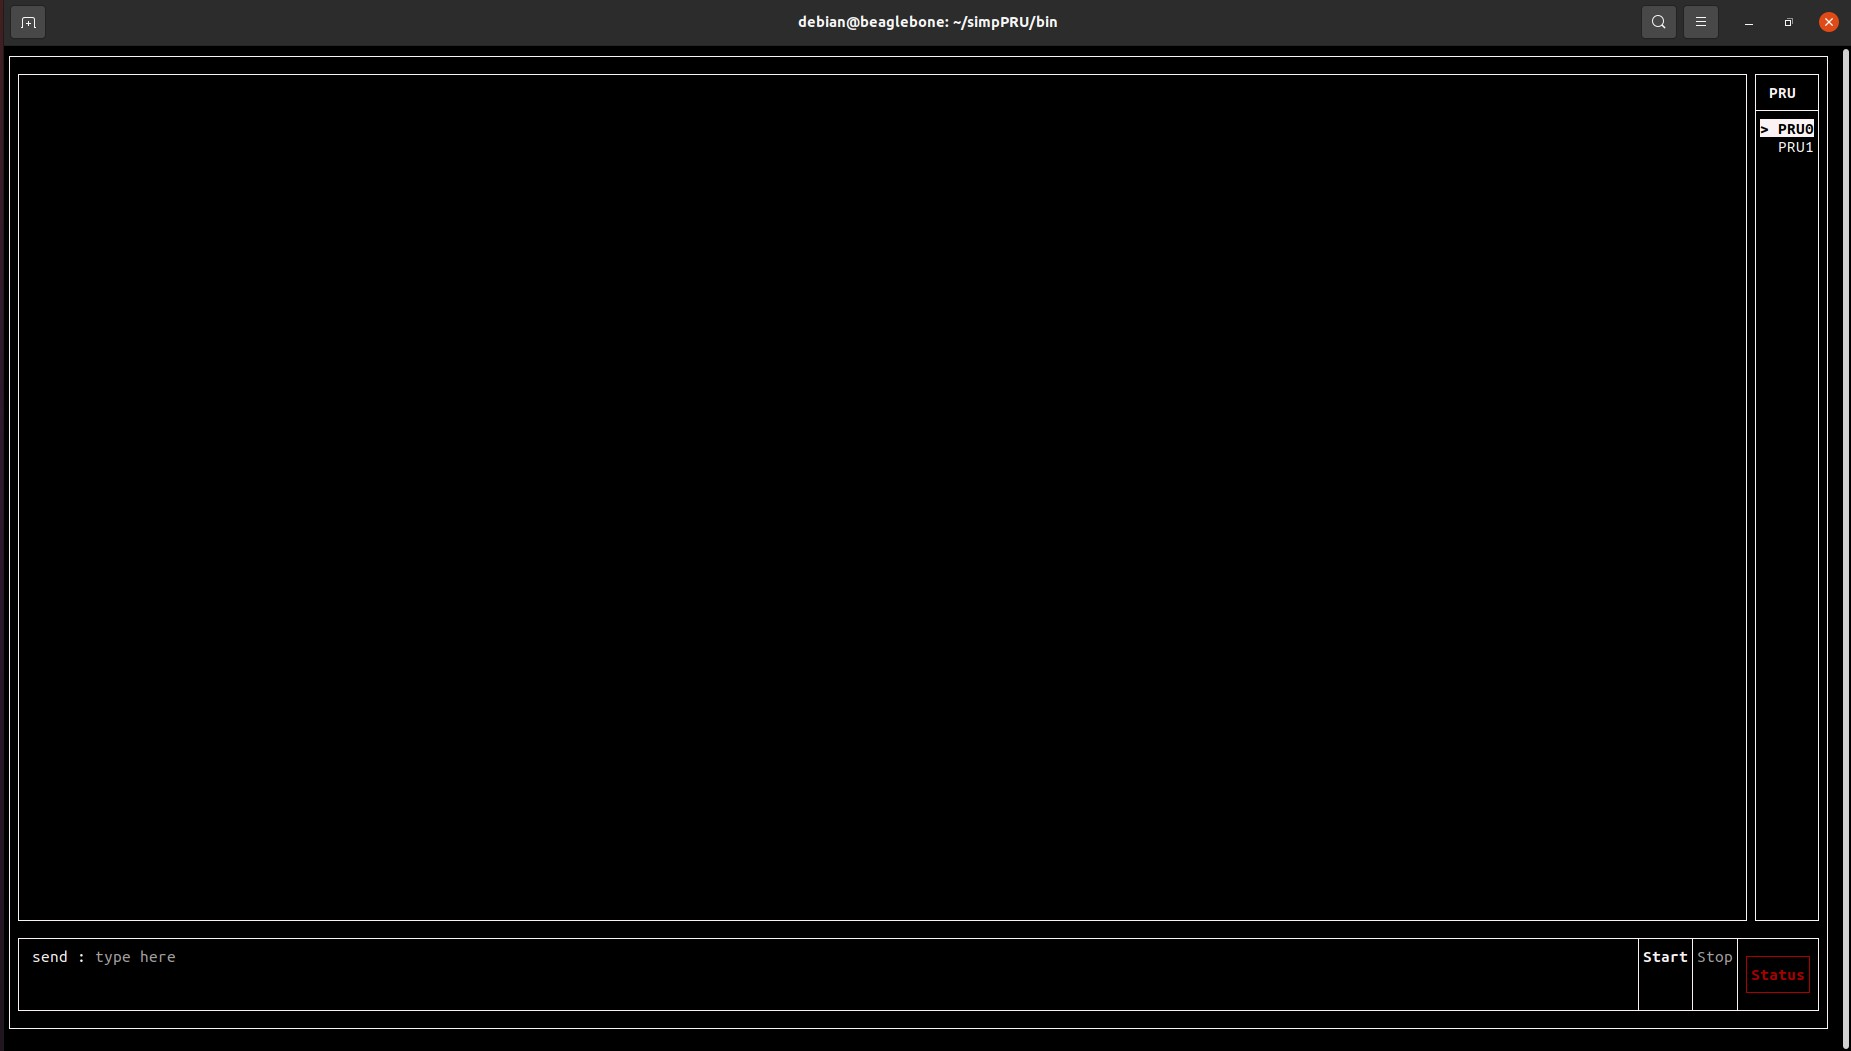
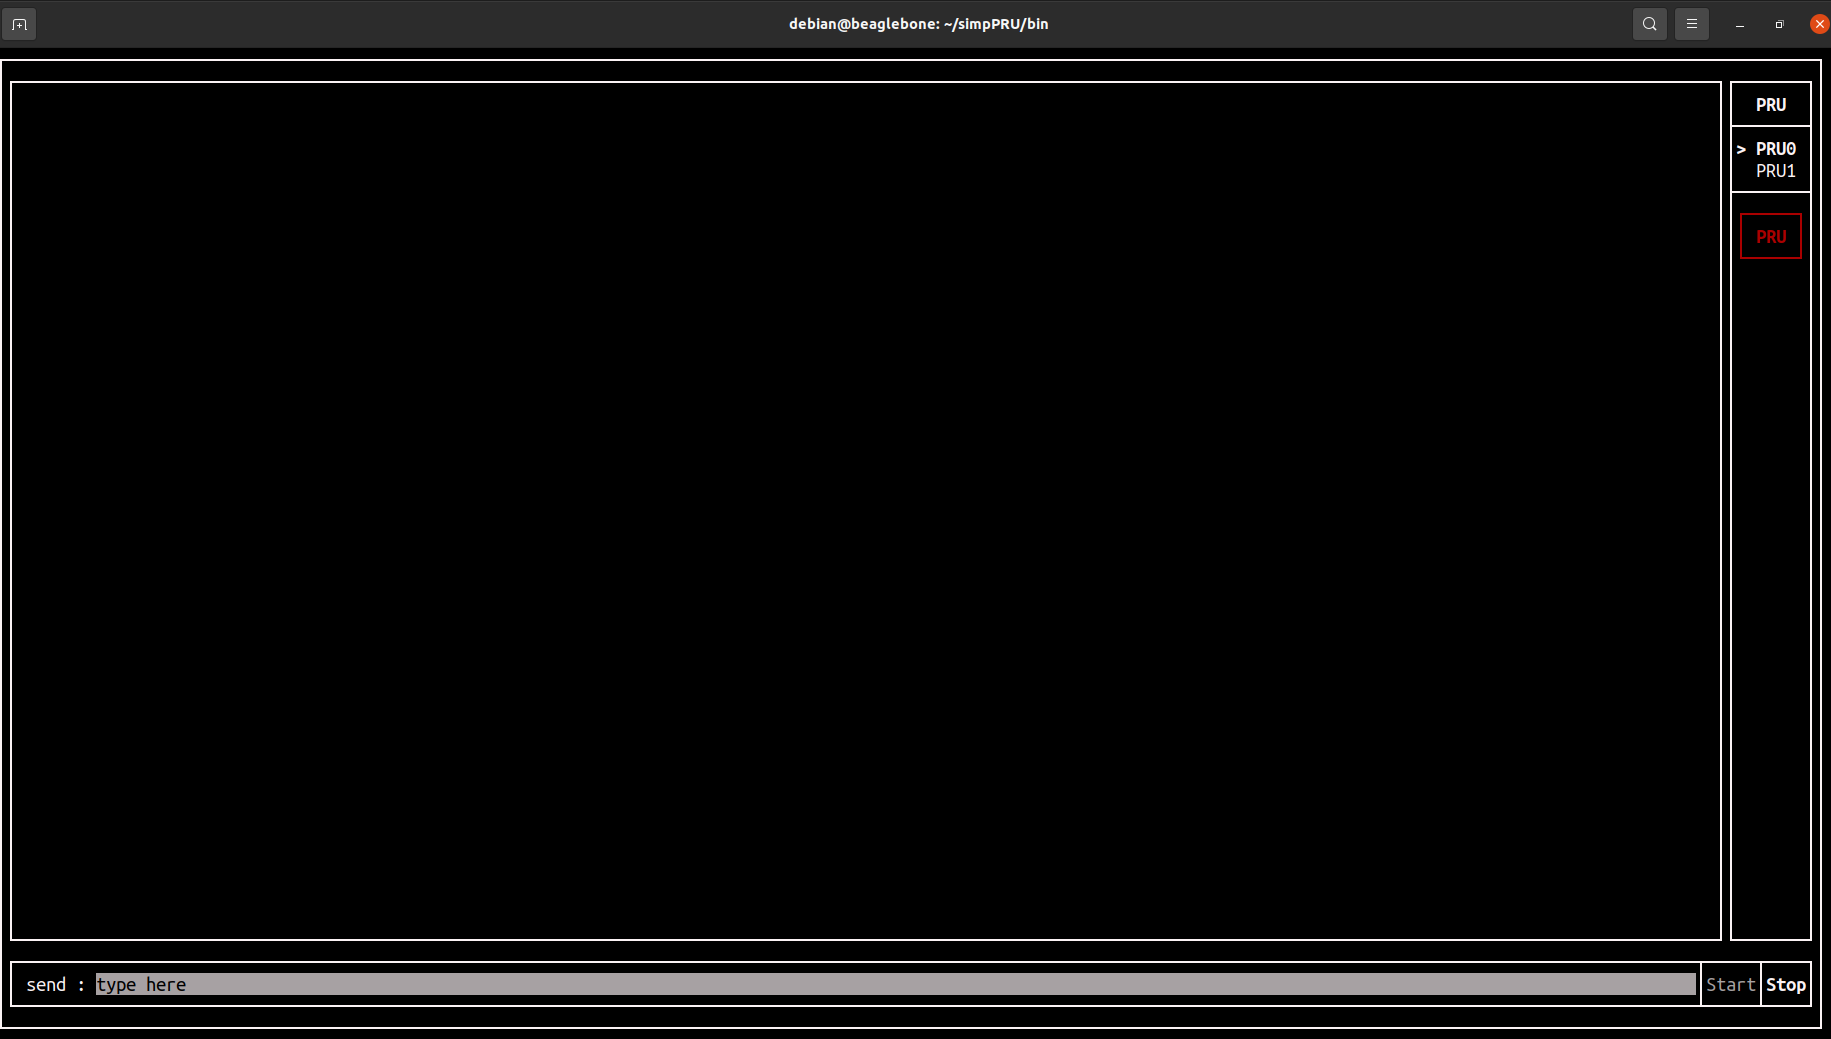
Updated the location of PRU Status auto-toggle button and its documentation

Changed region(s): [[0.0, 0.0, 1.0, 1.0]]

diff --git a/src/console/console.cpp b/src/console/console.cpp
@@ -346,7 +346,7 @@ Element console::Render()
 
     if (k == 1)
         return border(vbox({
-            // Console and PRU selection
+            // Console, PRU selection and PRU-Status Auto-toggle button
             hbox({
                 hbox({
                     vbox({
@@ -358,24 +358,24 @@ Element console::Render()
                     hcenter(bold(text(L"PRU"))),
                     separator(),
                     pru_id_menu->Render(),
+                    separator(),
+                    button->Render() | bold | color(Color::Green),
                 }) | border,
             }) | flex,
             
-            // Input box, PRU start/stop and PRU-Status Auto-toggle button
+            // Input box and PRU start/stop
             vbox({
                 hbox({
                     text(L" send : "),
                     input_box->Render(),
                     separator(),
                     pru_start_top->Render(),
-                    separator(),
-                    button->Render() | bold | color(Color::Green),
                 }),
             }) | border,
         }));
     else
         return border(vbox({
-            // Console and PRU selection
+            // Console, PRU selection and PRU-Status Auto-toggle button
             hbox({
                 hbox({
                     vbox({
@@ -387,18 +387,18 @@ Element console::Render()
                     hcenter(bold(text(L"PRU"))),
                     separator(),
                     pru_id_menu->Render(),
+                    separator(),
+                    button->Render() | bold | color(Color::Red),
                 }) | border,
             }) | flex,
             
-            // Input box, PRU start/stop and PRU-Status Auto-toggle button
+            // Input box and PRU start/stop
             vbox({
                 hbox({
                     text(L" send : "),
                     input_box->Render(),
                     separator(),
                     pru_start_top->Render(),
-                    separator(),
-                    button->Render() | bold | color(Color::Red),
                 }),
             }) | border,
         }));

diff --git a/include/console/console.hpp b/include/console/console.hpp
@@ -29,6 +29,7 @@ class console : public ComponentBase
 {
     public:
         console(); 
+        static inline auto screen = ScreenInteractive::Fullscreen();
         
     private:
         int pru_id = 0;
